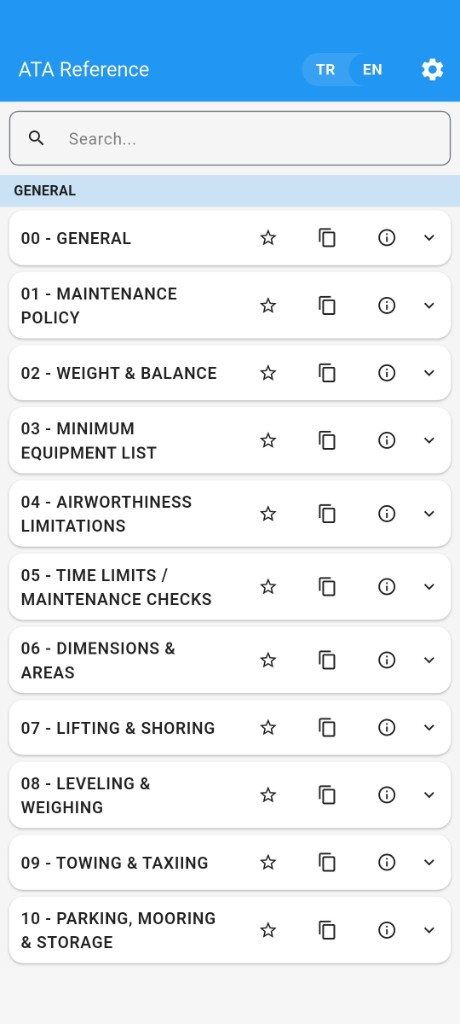
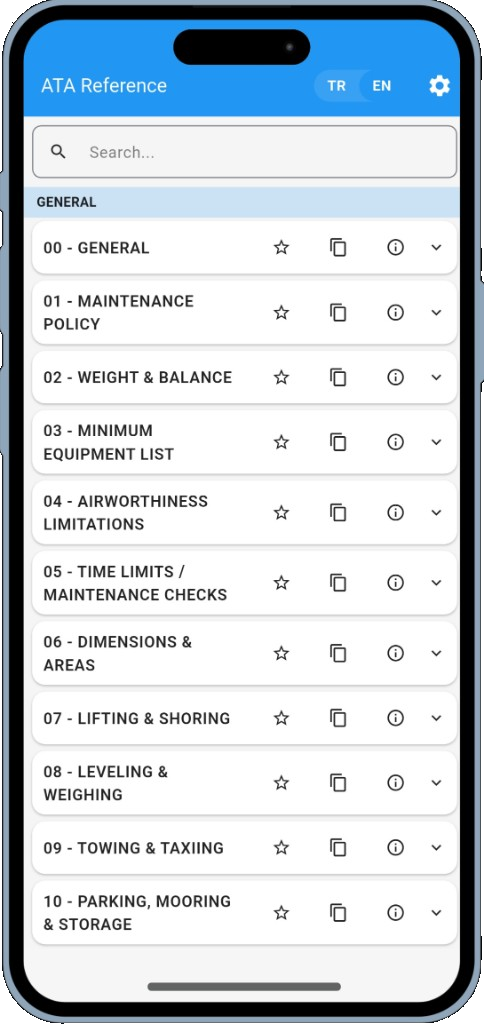
Hero: yeni mockup PNG, seffaf cerceve orani, mockup boyutu
Made-with: Cursor

diff --git a/css/app-site.css b/css/app-site.css
@@ -19,7 +19,7 @@
   --shadow-soft: 0 6px 28px rgba(15, 53, 80, 0.07);
   --ease-out: cubic-bezier(0.22, 1, 0.36, 1);
   --ease-spring: cubic-bezier(0.34, 1.3, 0.64, 1);
-  --hero-phone-width: min(400px, 94vw);
+  --hero-phone-width: min(440px, 96vw);
   --hero-mockup-shift-x: 0;
 }
 
@@ -127,7 +127,7 @@ a:hover {
 
 /* Ana sayfa hero: referans düzenine yakın daha geniş içerik (≈60/40 grid) */
 .app-content.container:has(.landing-hero) {
-  max-width: 72rem;
+  max-width: min(100%, 140rem);
   padding-inline: clamp(1rem, 4vw, 2rem);
 }
 
@@ -823,20 +823,20 @@ a:hover {
 
 @media (min-width: 640px) and (max-width: 959px) {
   :root {
-    --hero-phone-width: min(500px, 90vw);
+    --hero-phone-width: min(400px, 86vw);
   }
 
   .landing-phones {
-    min-height: 500px;
+    min-height: 480px;
   }
 }
 
 @media (min-width: 960px) {
-  /* Metin / telefon: telefon sütunu biraz daha geniş */
+  /* Telefon çerçevesi görseli için daha geniş sağ sütun */
   .landing-hero__grid {
     align-items: center;
-    gap: 1.75rem;
-    grid-template-columns: minmax(0, 5fr) minmax(0, 4fr);
+    gap: 1.5rem;
+    grid-template-columns: minmax(0, 4.5fr) minmax(0, 5.5fr);
   }
 
   .landing-hero__visual {
@@ -849,7 +849,8 @@ a:hover {
   }
 
   :root {
-    --hero-phone-width: min(760px, 100%);
+    /* Kare yerine dikey PNG: genişlik sütunu doldurursa yükseklik ~2.1× olur — makul tavan */
+    --hero-phone-width: min(360px, 100%);
     --hero-mockup-shift-x: -0.5rem;
   }
 }
@@ -914,7 +915,7 @@ a:hover {
 
 @media (min-width: 960px) {
   .landing-phones {
-    min-height: min(780px, 68vw);
+    min-height: min(720px, 72vh);
     justify-content: center;
     align-items: center;
     perspective-origin: 50% 45%;
@@ -924,16 +925,10 @@ a:hover {
     max-width: none;
     width: 100%;
   }
-
-  .hero-photo-mockup {
-    width: 100%;
-    max-width: min(760px, 100%);
-  }
 }
 
 /*
- * Gerçek iPhone ürün fotoğrafı: images/iphone-photo-frame-cutout.png
- * Ekran deliği şeffaf; app SS aynı oranlı kare içinde yüzdeyle hizalanır (1000px asset).
+ * Hero: birleşik mockup PNG (484×1024), çerçeve+ekran tek dosyada — images/app-preview-*.png
  */
 .hero-photo-mockup {
   position: relative;
@@ -951,34 +946,19 @@ a:hover {
   aspect-ratio: 1;
 }
 
-.hero-photo-mockup__screen {
-  position: absolute;
-  z-index: 1;
-  left: 31.3%;
-  top: 8.7%;
-  width: 37.2%;
-  height: 81.4%;
-  border-radius: 12.4%;
-  overflow: hidden;
-  background: #000;
+/* Kare kutu + contain → yanlarda “siyah şerit” hissi; PNG en-boyu ile hizala */
+.hero-photo-mockup--composite .hero-photo-mockup__inner {
+  aspect-ratio: 484 / 1024;
 }
 
-.hero-photo-mockup__img {
-  width: 100%;
-  height: 100%;
-  object-fit: cover;
-  object-position: top center;
-  display: block;
-}
-
-.hero-photo-mockup__frame {
+.hero-photo-mockup--composite .hero-photo-mockup__img {
   position: absolute;
   inset: 0;
-  z-index: 2;
   width: 100%;
   height: 100%;
   object-fit: contain;
-  pointer-events: none;
+  object-position: center center;
+  display: block;
 }
 
 @media (max-width: 959px) {

diff --git a/anasayfa/index.html b/anasayfa/index.html
@@ -38,7 +38,7 @@
   <link rel="preconnect" href="https://fonts.googleapis.com">
   <link rel="preconnect" href="https://fonts.gstatic.com" crossorigin>
   <link href="https://fonts.googleapis.com/css2?family=Plus+Jakarta+Sans:wght@400;500;600;700&display=swap" rel="stylesheet">
-  <link rel="stylesheet" href="../css/app-site.css?v=50">
+  <link rel="stylesheet" href="../css/app-site.css?v=57">
 </head>
 <body data-page="index" data-site-root="../">
   <a class="visually-hidden" href="#icerik" data-i18n="skip">İçeriğe geç</a>
@@ -107,24 +107,14 @@
                 <span class="landing-hero__spark landing-hero__spark--2"></span>
               </div>
               <div class="landing-phones">
-              <div class="hero-photo-mockup">
+              <div class="hero-photo-mockup hero-photo-mockup--composite">
                 <div class="hero-photo-mockup__inner">
-                  <div class="hero-photo-mockup__screen">
-                    <img
-                      class="hero-photo-mockup__img"
-                      data-hero-preview="front"
-                      src="../images/app-preview-light-tr.png?v=15"
-                      width="402"
-                      height="874"
-                      alt=""
-                      decoding="async"
-                    >
-                  </div>
                   <img
-                    class="hero-photo-mockup__frame"
-                    src="../images/iphone-photo-frame-cutout.png?v=1"
-                    width="1000"
-                    height="1000"
+                    class="hero-photo-mockup__img"
+                    data-hero-preview="front"
+                    src="../images/app-preview-light-tr.png?v=19"
+                    width="484"
+                    height="1024"
                     alt=""
                     decoding="async"
                   >
@@ -141,7 +131,7 @@
                   if (!root) return;
                   root.querySelectorAll("img[data-hero-preview]").forEach(function (img) {
                     img.src =
-                      "../images/app-preview-" + t + "-" + l + ".png?v=15&m=" + encodeURIComponent(t);
+                      "../images/app-preview-" + t + "-" + l + ".png?v=19&m=" + encodeURIComponent(t);
                   });
                 } catch (e) {}
               })();
@@ -209,7 +199,7 @@
     </footer>
   </div>
 
-  <script src="../js/site-ui.js?v=28" defer></script>
+  <script src="../js/site-ui.js?v=31" defer></script>
   <script src="../js/app-motion.js?v=25" defer></script>
   <script src="../js/landing-page.js?v=25" defer></script>
 </body>

diff --git a/open-app.html b/open-app.html
@@ -29,7 +29,7 @@
   <link rel="preconnect" href="https://fonts.googleapis.com">
   <link rel="preconnect" href="https://fonts.gstatic.com" crossorigin>
   <link href="https://fonts.googleapis.com/css2?family=Plus+Jakarta+Sans:wght@400;600&display=swap" rel="stylesheet">
-  <link rel="stylesheet" href="css/app-site.css?v=50">
+  <link rel="stylesheet" href="css/app-site.css?v=57">
   <style>
     .sync-page { max-width: 32rem; margin: 0 auto; padding: 2rem 1.25rem 4rem; }
     .sync-page h1 { font-size: 1.35rem; margin: 0 0 0.75rem; }
@@ -78,7 +78,7 @@
       </div>
     </footer>
   </div>
-  <script src="js/site-ui.js?v=28" defer></script>
+  <script src="js/site-ui.js?v=31" defer></script>
   <script src="js/app-sync-page.js" defer></script>
 </body>
 </html>

diff --git a/indir.html b/indir.html
@@ -27,7 +27,7 @@
   <link rel="preconnect" href="https://fonts.googleapis.com">
   <link rel="preconnect" href="https://fonts.gstatic.com" crossorigin>
   <link href="https://fonts.googleapis.com/css2?family=Plus+Jakarta+Sans:wght@400;500;600;700&display=swap" rel="stylesheet">
-  <link rel="stylesheet" href="css/app-site.css?v=50">
+  <link rel="stylesheet" href="css/app-site.css?v=57">
 </head>
 <body data-page="download">
   <div class="app-shell">
@@ -90,7 +90,7 @@
     </footer>
   </div>
 
-  <script src="js/site-ui.js?v=28" defer></script>
+  <script src="js/site-ui.js?v=31" defer></script>
   <script src="js/app-motion.js?v=25" defer></script>
   <script src="js/releases-page.js" defer></script>
 </body>

diff --git a/nasil-yuklenir.html b/nasil-yuklenir.html
@@ -27,7 +27,7 @@
   <link rel="preconnect" href="https://fonts.googleapis.com">
   <link rel="preconnect" href="https://fonts.gstatic.com" crossorigin>
   <link href="https://fonts.googleapis.com/css2?family=Plus+Jakarta+Sans:wght@400;500;600;700&display=swap" rel="stylesheet">
-  <link rel="stylesheet" href="css/app-site.css?v=50">
+  <link rel="stylesheet" href="css/app-site.css?v=57">
 </head>
 <body data-page="install">
   <div class="app-shell">
@@ -109,7 +109,7 @@
     </footer>
   </div>
 
-  <script src="js/site-ui.js?v=28" defer></script>
+  <script src="js/site-ui.js?v=31" defer></script>
   <script src="js/app-motion.js?v=25" defer></script>
 </body>
 </html>

diff --git a/js/site-ui.js b/js/site-ui.js
@@ -64,7 +64,7 @@
     window.dispatchEvent(new CustomEvent("ata-app-sync", { detail: payload }));
   }
 
-  const HERO_PREVIEW_V = "15";
+  const HERO_PREVIEW_V = "19";
 
   function siteRootUrl() {
     const b = document.baseURI || window.location.href;
